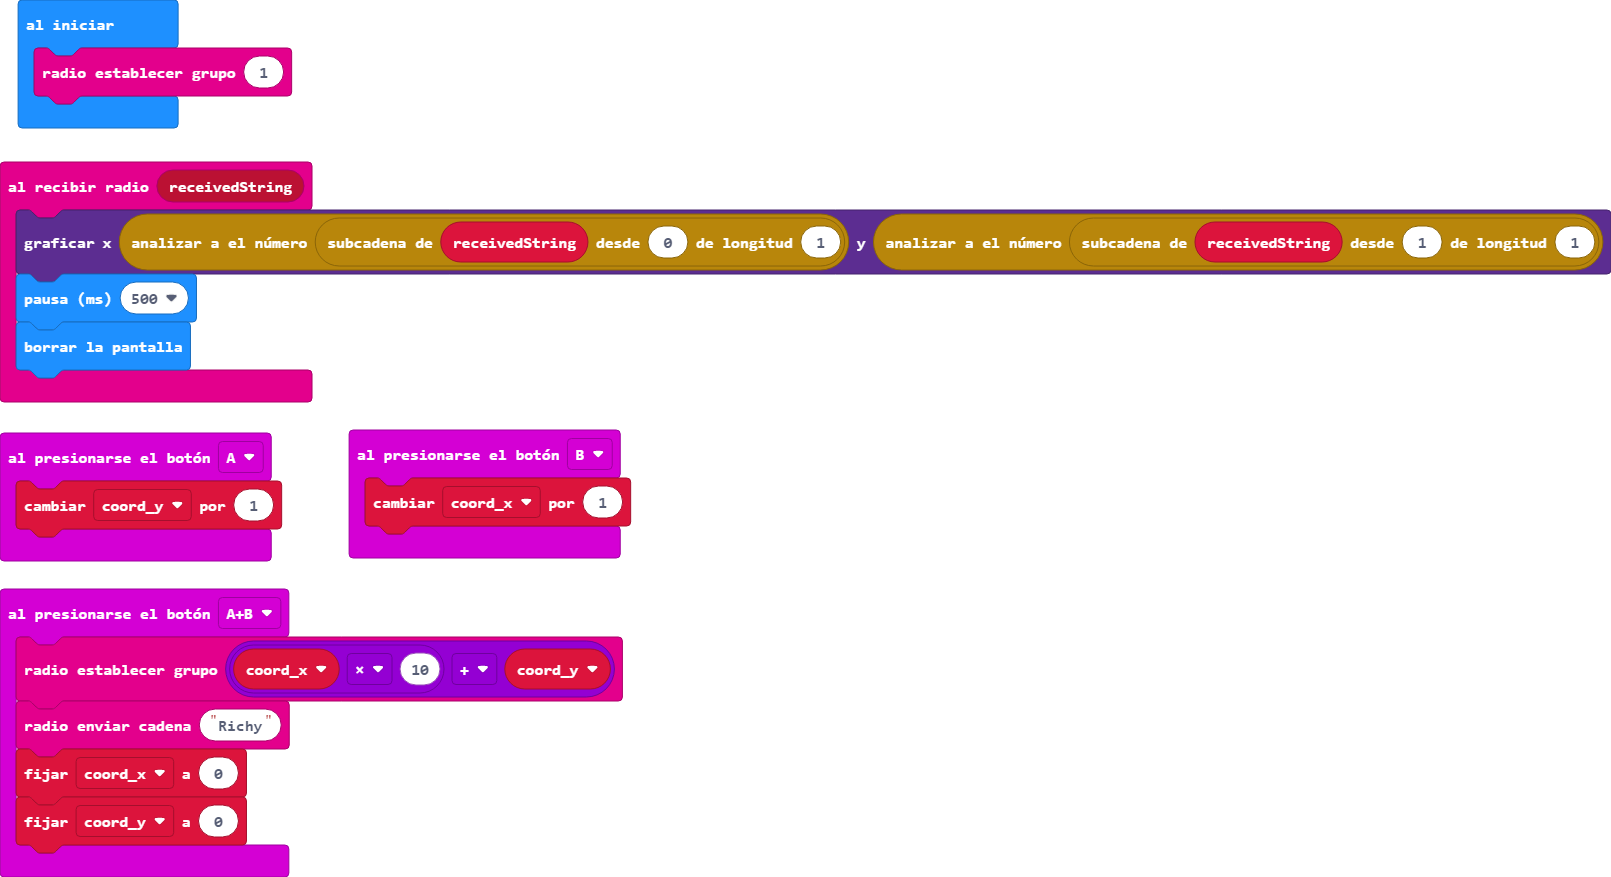
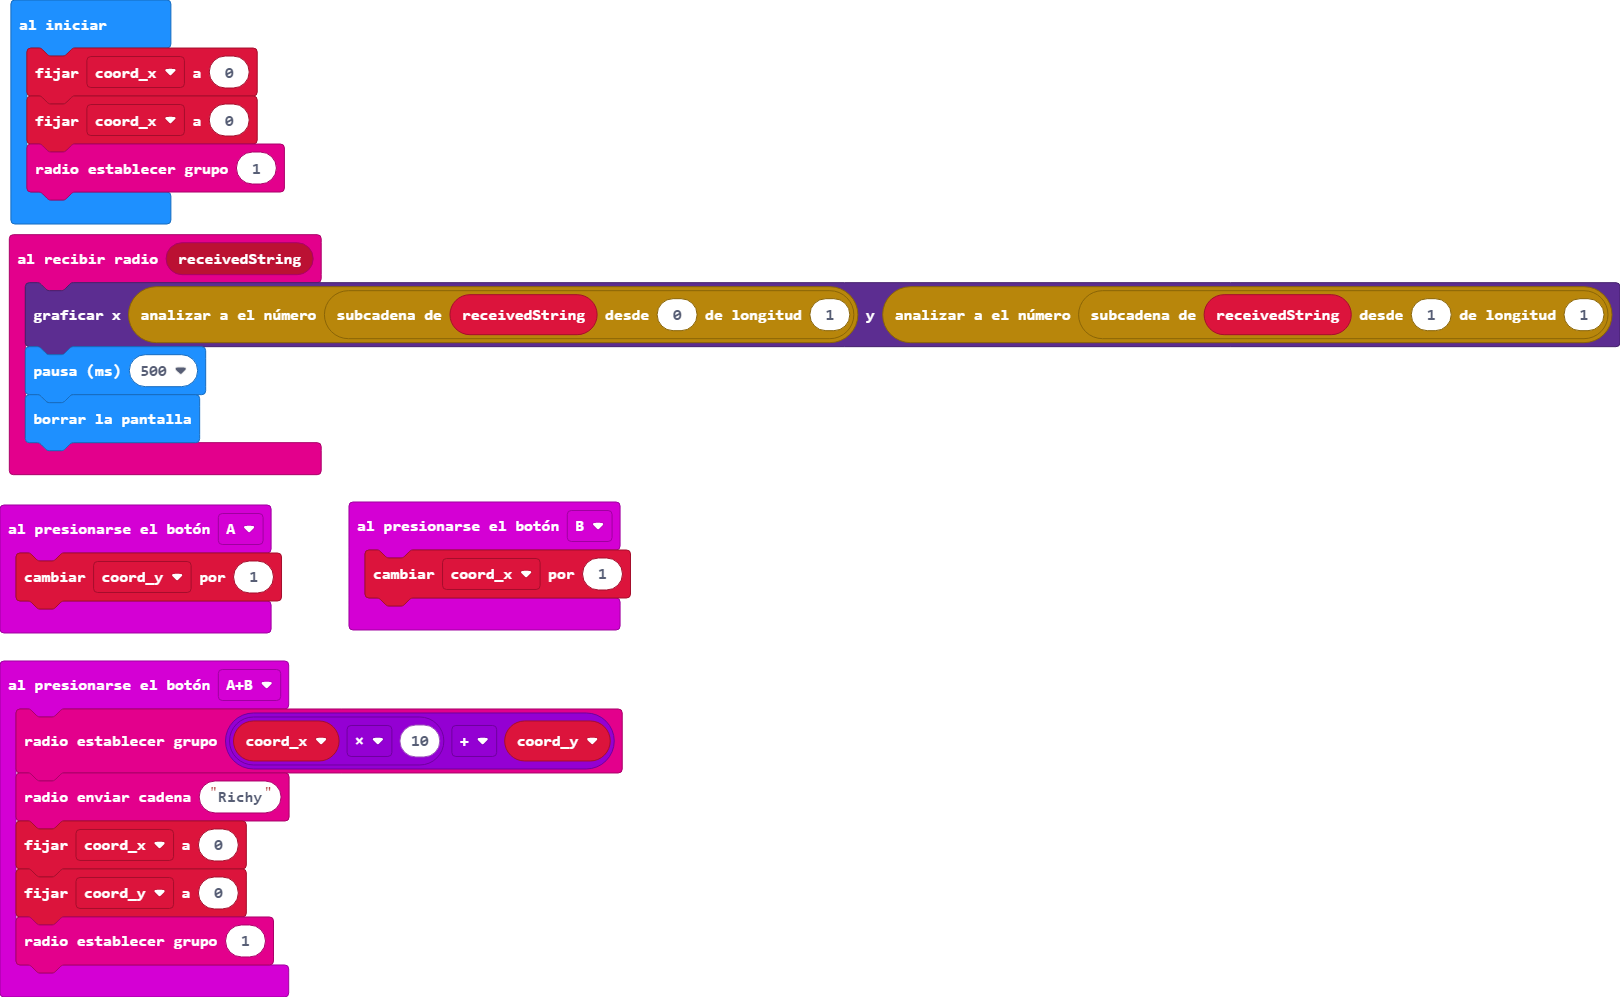
Actualizar main.blocks, main.ts

Changed region(s): [[0.0, 0.0, 1.0, 0.9852]]

diff --git a/main.ts b/main.ts
@@ -6,6 +6,7 @@ input.onButtonPressed(Button.AB, function () {
     radio.sendString("Richy")
     coord_x = 0
     coord_y = 0
+    radio.setGroup(1)
 })
 radio.onReceivedString(function (receivedString) {
     led.plot(parseFloat(receivedString.substr(0, 1)), parseFloat(receivedString.substr(1, 1)))
@@ -15,6 +16,8 @@ radio.onReceivedString(function (receivedString) {
 input.onButtonPressed(Button.B, function () {
     coord_x += 1
 })
-let coord_x = 0
 let coord_y = 0
+let coord_x = 0
+coord_x = 0
+coord_x = 0
 radio.setGroup(1)
